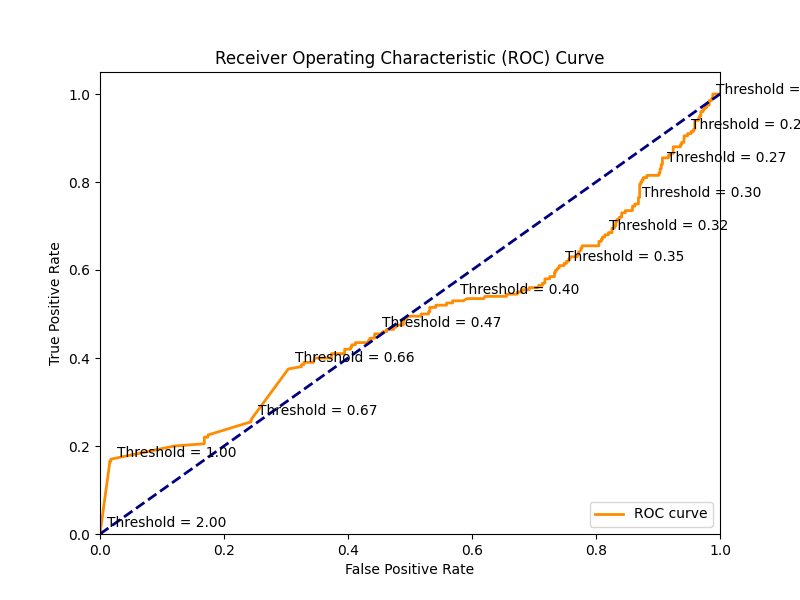
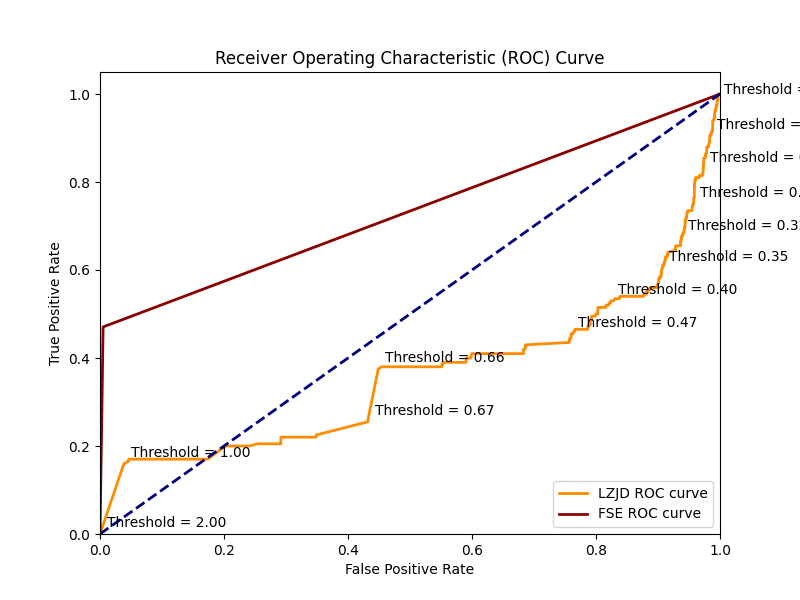
fse roc

diff --git a/lzjd-script.py b/lzjd-script.py
@@ -7,7 +7,7 @@ import json
 import subprocess
 import tqdm
 import editdistance
-#from fast_edit_distance import edit_distance
+import itertools
 
 j1 = json.load(open(sys.argv[1], "r"))
 j2 = json.load(open(sys.argv[2], "r"))
@@ -24,8 +24,6 @@ def lev_sim(a, b):
 
 # Keep sims in sorted order by distance and remove changed pairs
 def greedy_entity_matching(sims):
-    # we don't need the bytes anymore
-    #sims = [(a,b,c,d,e) for (a,b,c,d,e) in tqdm.tqdm(sims, desc="edit distance")]
     matches = []  # List to store matched pairs
 
     setA = {t[0] for t in sims}
@@ -138,8 +136,8 @@ if True:
         name2 = name_fun(f2, m2)
         lev = lev_sim(b1, b2)
         print("%s <==> %s (sim=%s; lev=%s)" % (name1, name2, sim, lev))
-        if name1 in intersect_fun_names and name2 in intersect_fun_names:
-            print("PLOT,%s,%s,%s,%s,%s" % (name1 == name2,name1, name2, sim, lev))
+        correct = name1 == name2 and name1 in intersect_fun_names and name2 in intersect_fun_names
+        print("PLOTLZJD,%s,%s,%s,%s,%s" % (correct, name1, name2, sim, lev))
 
 # How many (fun, fun, _) matches do we have?
 correct_matches = [next(((fun, sim) for f1, f2, _, _, sim in matches if name_fun(f1, m1) == fun and name_fun(f2, m2) == fun), None) for fun in intersect_fun_names]
@@ -155,5 +153,30 @@ for fun in intersect_fun_names:
         print(f"Correct match: {fun} (sim={sim})")
     else:
         print(f"Incorrect match: {fun}")
+
+# Since we have the fn2hash json parsed and everything here, it makes sense to
+# just compute the TP and FP for PIC hash here.
+
+# But there can be multiple functions with the same PIC hash in a binary.  So,
+# what we'll do is use the greedy matching algorithm, which will pick an
+# arbitrary match if there are multiple functions with the same PIC hash.
+
+#j1hash = {f['fn_addr']: f['pic_hash'] for f in j1['analysis']}
+#j2hash = {f['fn_addr']: f['pic_hash'] for f in j2['analysis']}
+
+pic_comparisons = [(addr1, addr2, 1.0 if hash1 == hash2 else 0.0) for ((addr1, (hash1, _)), (addr2, (hash2, _))) in product(funs1.items(), funs2.items())]
+pic_comparisons.sort(key=lambda t: -t[2])
+
+pic_matches = greedy_entity_matching(pic_comparisons)
+
+for f1, f2, sim in pic_matches:
+    name1 = name_fun(f1, m1)
+    name2 = name_fun(f2, m2)
+    correct = name1 == name2 and name1 in intersect_fun_names and name2 in intersect_fun_names
+    lev = lev_sim(b1, b2)
+    print("PLOTFSE,%s,%s,%s,%s,%s" % (correct, name1, name2, sim, lev))
+
+#import ipdb
+#ipdb.set_trace()
 
 print(f"Accuracy: {accuracy}")

diff --git a/roc.py b/roc.py
@@ -5,26 +5,33 @@ import pandas
 import sys
 from sklearn.metrics import roc_curve, roc_auc_score
 
-d = pandas.read_csv(sys.argv[1], names=["correct", "name1", "name2", "sim", "lev"])
+d = pandas.read_csv(sys.argv[1], names=["strategy", "correct", "name1", "name2", "sim", "lev"])
 
-y_true = d["correct"]
-y_pred = d["sim"]
+lzjd = d[d["strategy"] == "PLOTLZJD"]
+fse = d[d["strategy"] == "PLOTFSE"]
 
-fpr, tpr, thresholds = roc_curve(y_true, y_pred)
+lzjd_true, lzjd_pred = lzjd["correct"], lzjd["sim"]
+fse_true, fse_pred = fse["correct"], fse["sim"]
 
-roc_auc = roc_auc_score(y_true, y_pred)
+lzjd_fpr, lzjd_tpr, lzjd_thresholds = roc_curve(lzjd_true, lzjd_pred)
+fse_fpr, fse_tpr, fse_thresholds = roc_curve(fse_true, fse_pred)
+
+roc_auc = roc_auc_score(lzjd_true, lzjd_pred)
 
 plt.figure(figsize=(8, 6))
-plt.plot(fpr, tpr, color='darkorange', lw=2, label='ROC curve')
+plt.plot(lzjd_fpr, lzjd_tpr, color='darkorange', lw=2, label='LZJD ROC curve')
+
+plt.plot(fse_fpr, fse_tpr, color='darkred', lw=2, label='FSE ROC curve')
+
 
 # Annotate the points with thresholds
 last_y = -1000
-for i, threshold in enumerate(thresholds):
-    diff = tpr[i] - last_y
+for i, threshold in enumerate(lzjd_thresholds):
+    diff = lzjd_tpr[i] - last_y
     # hand tuned constant
     if diff > 0.07:
-        last_y = tpr[i]
-        plt.annotate(f'Threshold = {threshold:.2f}', (fpr[i], tpr[i]), textcoords='offset points', xytext=(5,5), ha='left')
+        last_y = lzjd_tpr[i]
+        plt.annotate(f'Threshold = {threshold:.2f}', (lzjd_fpr[i], lzjd_tpr[i]), textcoords='offset points', xytext=(5,5), ha='left')
 
 plt.plot([0, 1], [0, 1], color='navy', lw=2, linestyle='--')
 plt.xlim([0.0, 1.0])
